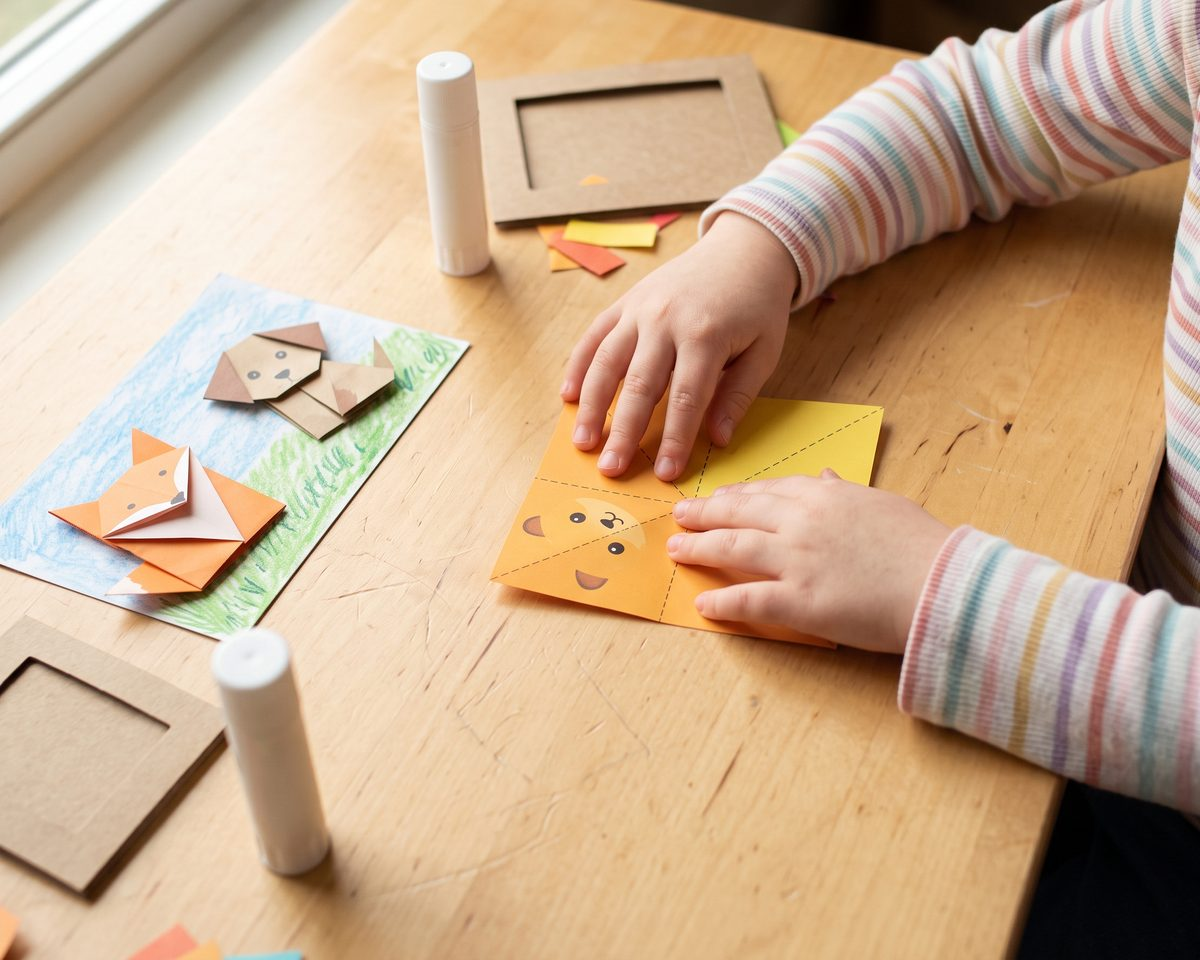
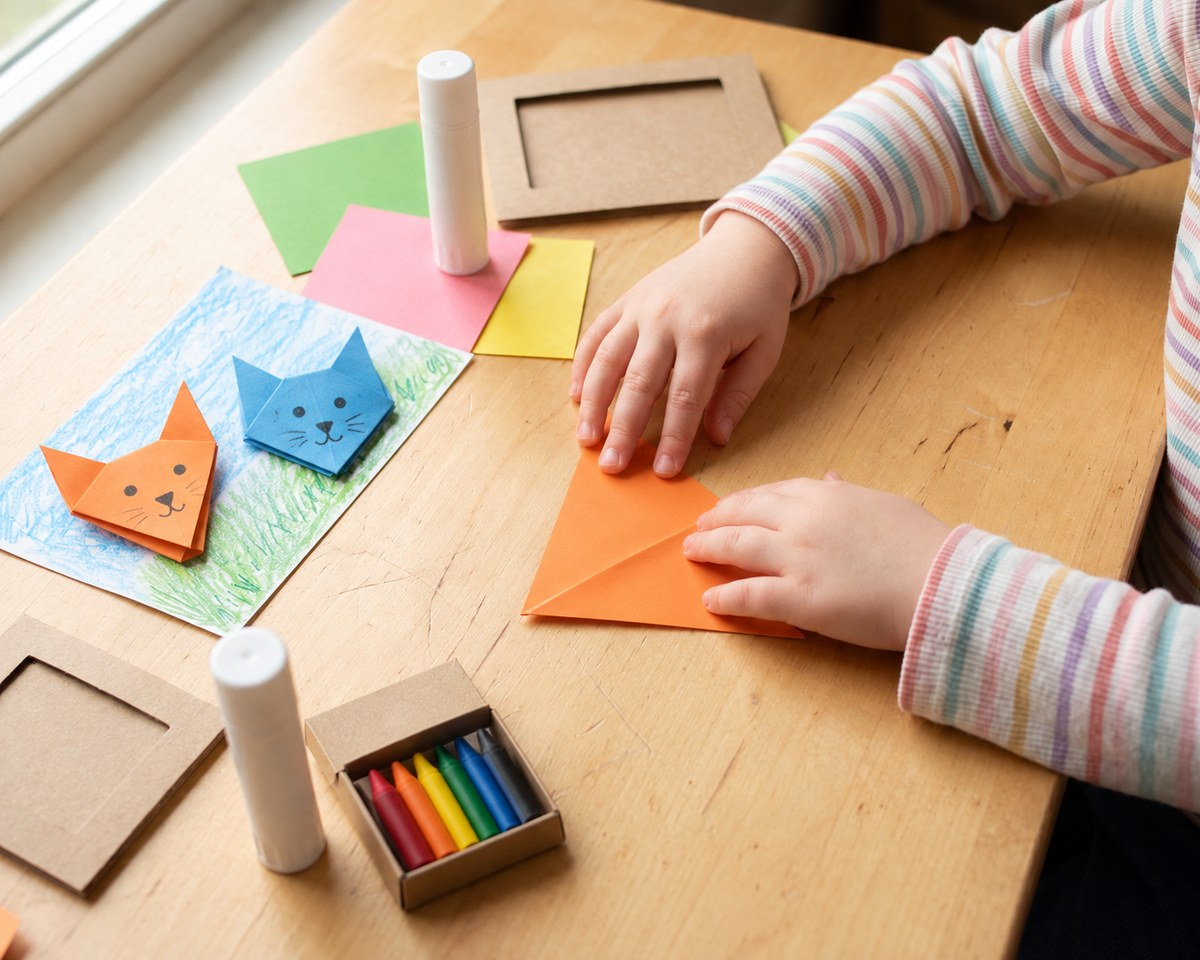
Dobradura: nova foto da crianca dobrando papel liso, com os bichinhos do livrinho

diff --git a/index.html b/index.html
@@ -1302,7 +1302,7 @@ const FAIXAS = [
    ilustração (veja fotos/LEIA-ME.txt). Enquanto o arquivo não existir, o site mostra a ilustração. */
 /* Versão das fotos: quando trocar uma foto, mude este número para os navegadores baixarem a nova na hora,
    em vez de mostrarem a antiga que ficou guardada */
-const FOTOS_VERSAO = '2026-10-20d';
+const FOTOS_VERSAO = '2026-10-21a';
 const FOTO = {
   topo:    `fotos/topo.jpg?v=${FOTOS_VERSAO}`,
   historia:`fotos/historia.jpg?v=${FOTOS_VERSAO}`,
